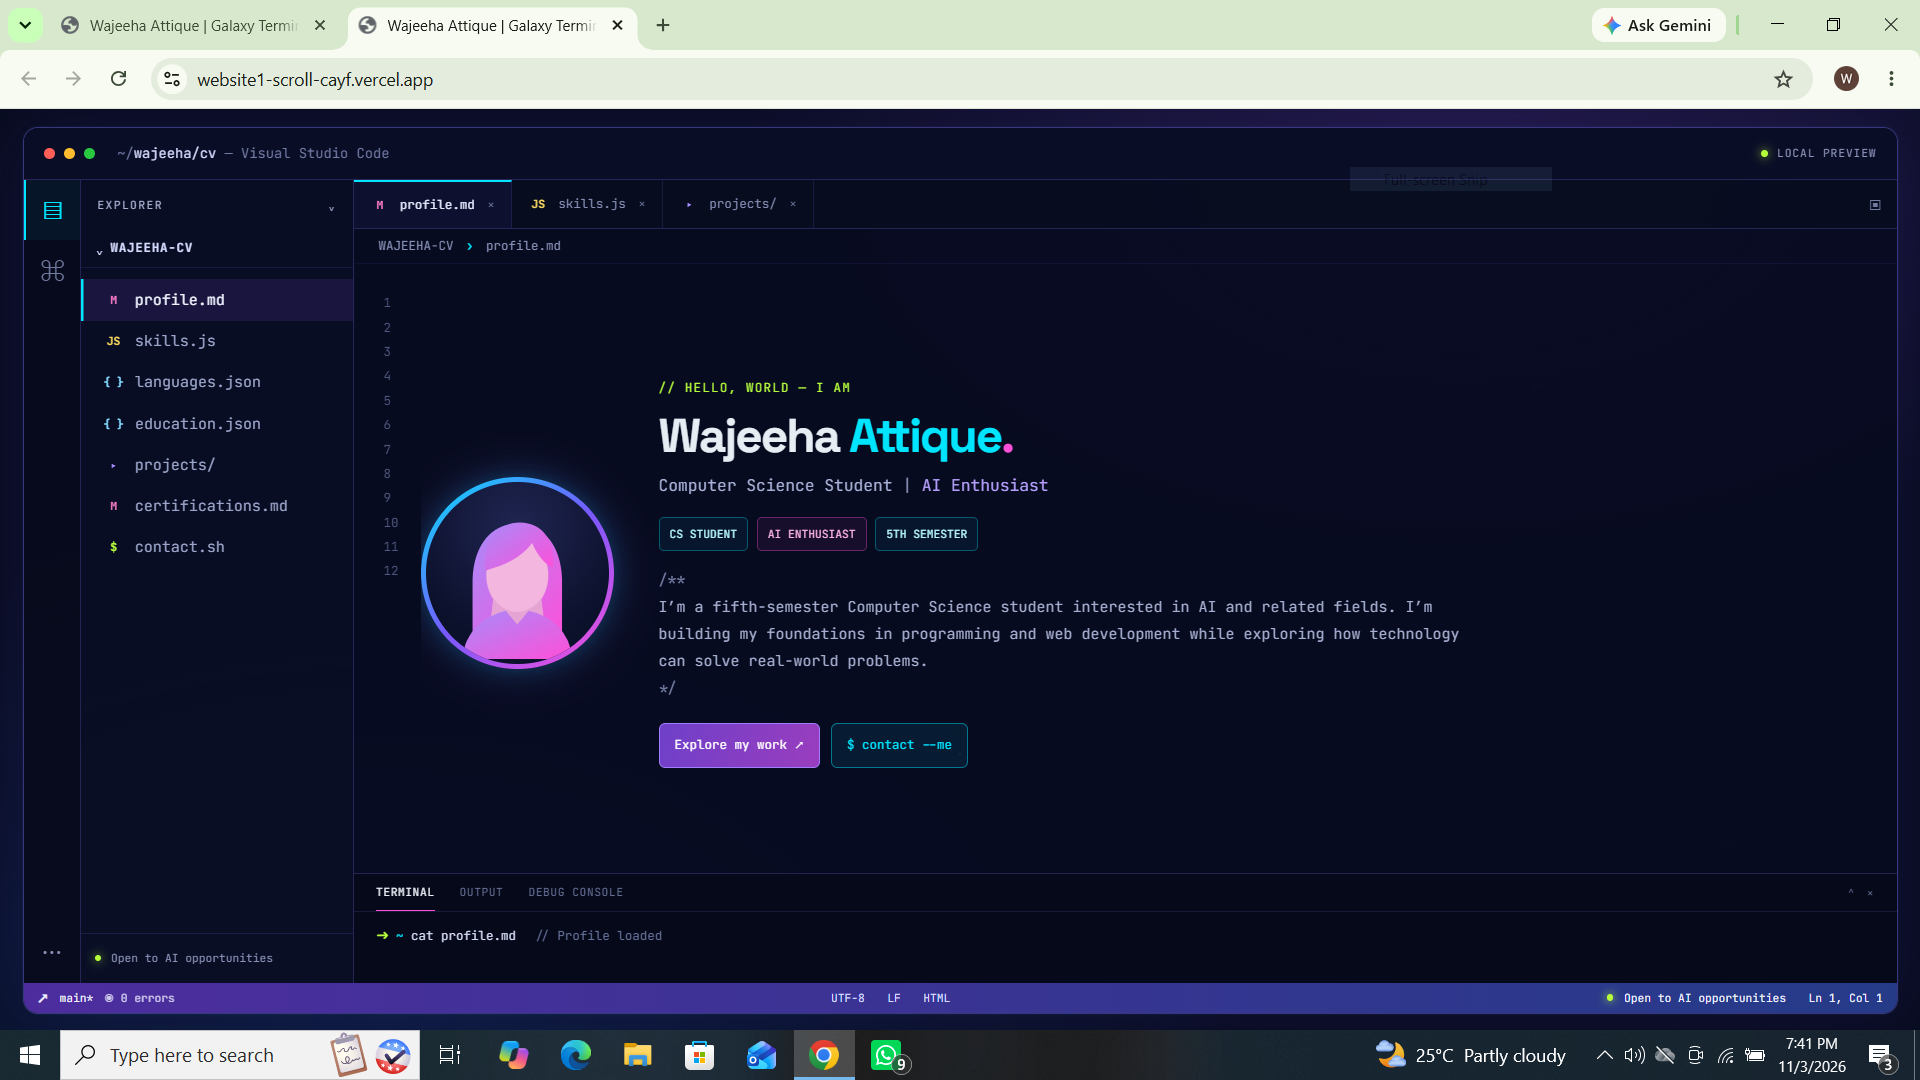
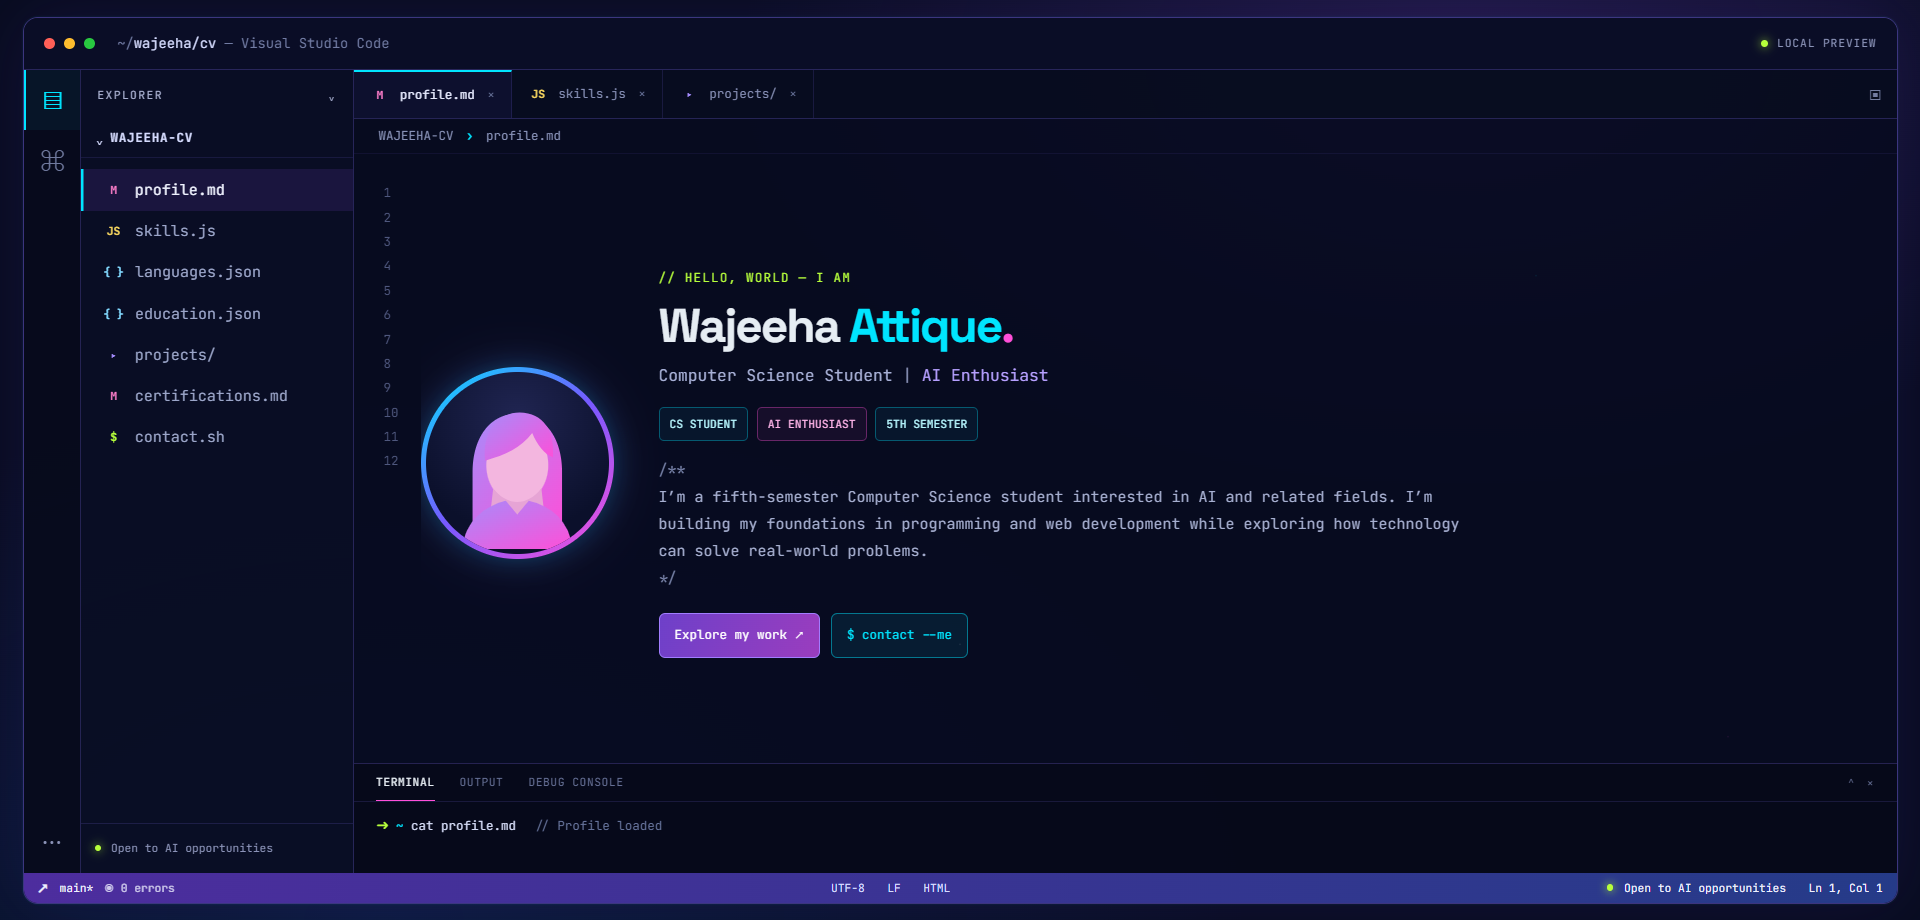
changes

diff --git a/style.css b/style.css
@@ -546,13 +546,16 @@ h2 em {
 }
 
 .cinema-wrap {
-  width: min(100%,1200px);
-  margin: auto;
+  width: min(112%, 1600px);
+  margin: 2.5rem auto 0;
+  position: relative;
+  left: 50%;
+  transform: translateX(-50%);
   transition: transform .35s ease;
 }
 
 .cinema-wrap:hover {
-  transform: scale(1.018);
+  transform: translateX(-50%) scale(1.008);
 }
 
 /* =====================================
@@ -562,9 +565,9 @@ h2 em {
 .cinema-screen {
   position: relative;
   width: 100%;
-  aspect-ratio: 16 / 9;
+  aspect-ratio: 16 / 3;
   overflow: hidden;
-  background: var(--beige);
+  background: var(--ivory);
   box-shadow: 0 24px 45px rgba(41,41,41,.12);
   isolation: isolate;
 }
@@ -592,24 +595,40 @@ h2 em {
   width: 100%;
   height: 100%;
   display: block;
-  object-fit: cover;
+  object-fit: contain;
   object-position: center;
-  transition: transform 0.65s cubic-bezier(.2,.8,.2,1);
+  transform: scale(1);
+  transition: transform .65s cubic-bezier(.2,.8,.2,1);
+  background: var(--ivory);
+}
+
+.cinema-panel:hover img {
+  transform: scale(1.12);
 }
 
 /* Hover expansion */
 
 .cinema-panels:hover .cinema-panel {
-  flex: 0.85;
+  flex: 0.55;
 }
 
 .cinema-panels .cinema-panel:hover {
-  flex: 1.7;
-  z-index: 2;
+  flex: 3.2;
+  z-index: 4;
 }
 
-.cinema-panel:hover img {
-  transform: scale(1.06);
+/* Individual screenshot positioning */
+
+.cinema-panel:nth-child(1) img {
+  object-position: center 48%;
+}
+
+.cinema-panel:nth-child(2) img {
+  object-position: center 48%;
+}
+
+.cinema-panel:nth-child(3) img {
+  object-position: center 48%;
 }
 
 /* Full-width cinematic curved edges */
@@ -1032,7 +1051,7 @@ footer b {
   opacity: 1;
 }
 
-@media (max-width: 600px) {
+@media (max-width: 700px) {
   .cinema-screen {
     aspect-ratio: 3 / 4;
   }
@@ -1046,10 +1065,6 @@ footer b {
   }
 
   .cinema-panels .cinema-panel:hover {
-    flex: 1.7;
-  }
-
-  .cinema-cut {
-    height: 14px;
+    flex: 1.5;
   }
 }
